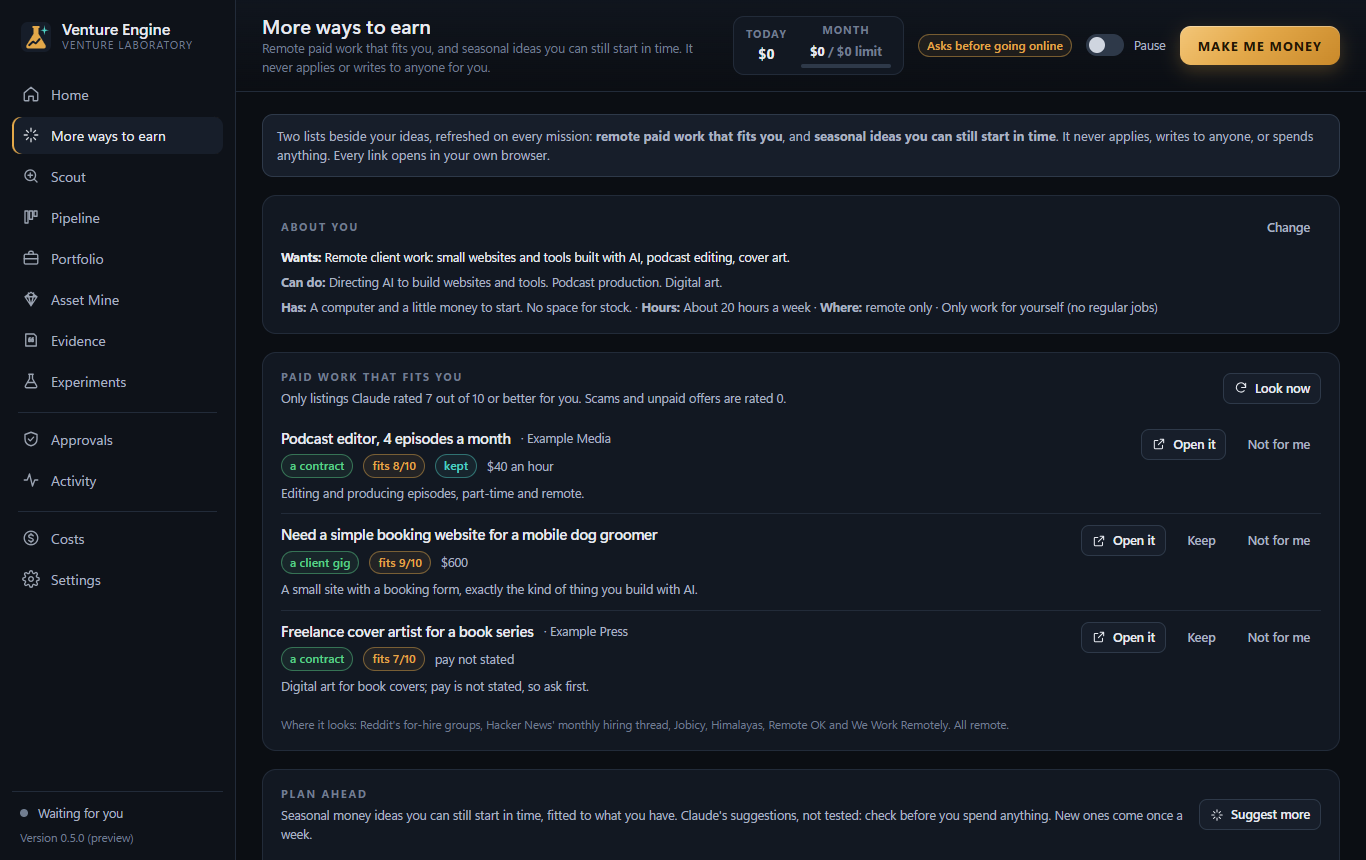
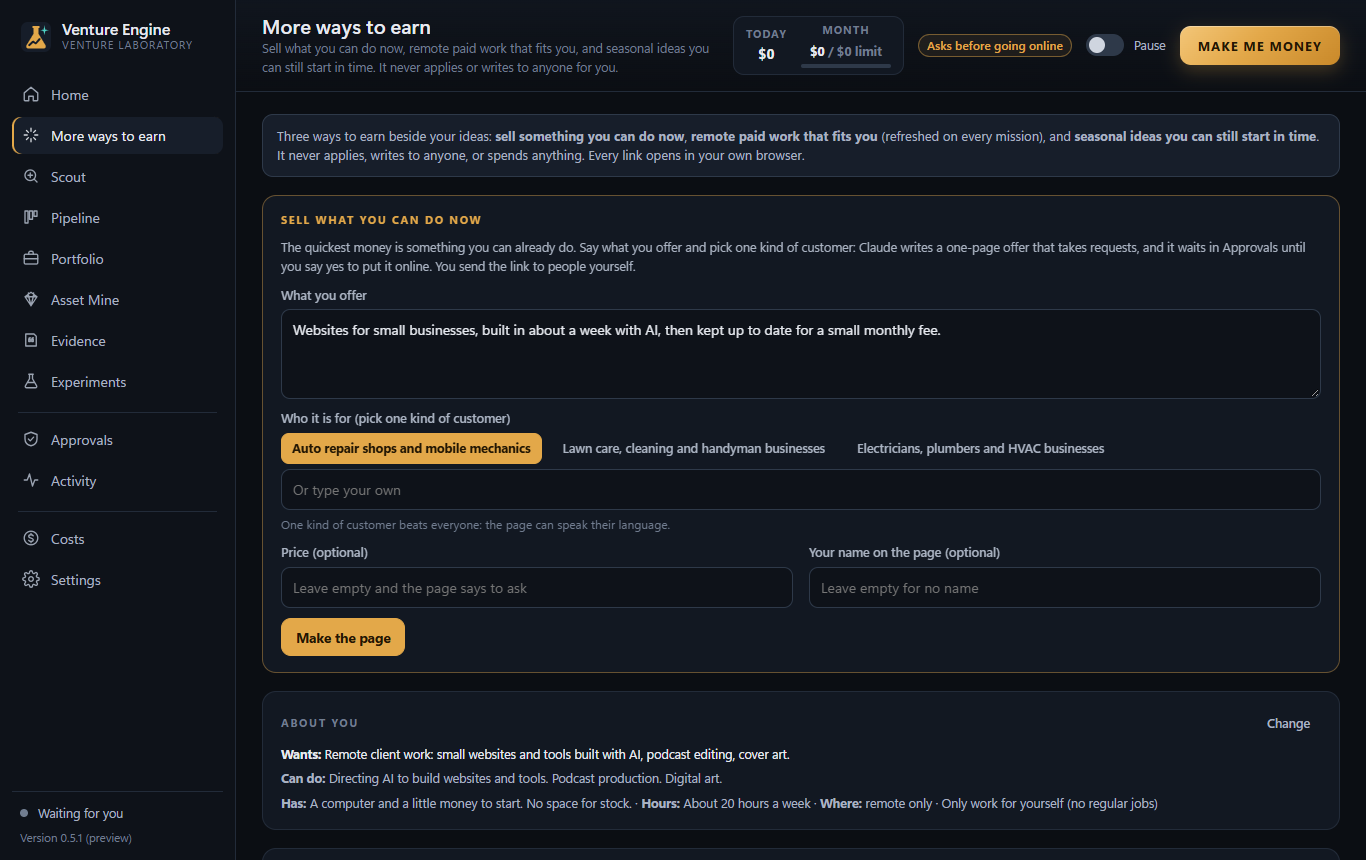
v0.5.1: sell what you can do now

diff --git a/README.md b/README.md
@@ -37,7 +37,7 @@ When an idea passes, it gets a plain one-page test: real complaints first (no na
 
 ![More ways to earn: remote work that fits you, rated by Claude, and seasonal ideas to plan ahead](shots/09-more-ways-to-earn.png)
 
-Ideas take time to prove. So every mission also reads six remote work boards and has Claude rate each new listing for you, 0 to 10, with scams and unpaid offers rated 0. Client gigs and contracts come first; regular jobs only if you switch them on. Once a week it suggests seasonal ideas you can still start in time, each with a start-by date and a first step. It never applies or writes to anyone for you. Ideas can now be a service, something to make or sell, or a guide, not only software. Example content shown.
+The quickest money is something you can already do, so the screen opens with **Sell what you can do now**: say what you offer, pick one kind of customer, and Claude writes a one-page offer that takes requests. It goes online only after your yes. Ideas take time to prove, so every mission also reads six remote work boards and has Claude rate each new listing for you, 0 to 10, with scams and unpaid offers rated 0. Client gigs and contracts come first; regular jobs only if you switch them on. Once a week it suggests seasonal ideas you can still start in time, each with a start-by date and a first step. It never applies or writes to anyone for you. Ideas can now be a service, something to make or sell, or a guide, not only software. Example content shown.
 
 ## The loop
 
@@ -78,7 +78,7 @@ Research only. Research and build on this computer. Or also get tests ready to g
 
 ## Status
 
-Version 0.5.0, for Windows. 174 automated tests (the full loop among them, on a real database file, and seventeen for missions and look-ups), a walkthrough of the real screens, and every built-in mission address checked live before release. The screenshots here come from a fresh, empty profile.
+Version 0.5.1, for Windows. 178 automated tests (the full loop among them, on a real database file, and seventeen for missions and look-ups), a walkthrough of the real screens, and every built-in mission address checked live before release. The screenshots here come from a fresh, empty profile.
 
 The code is private.
 
